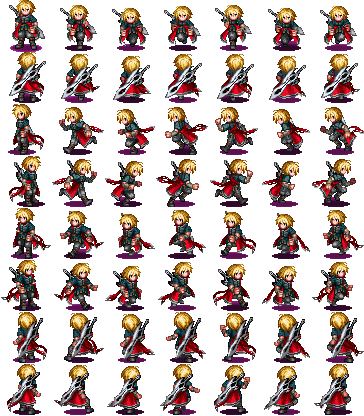
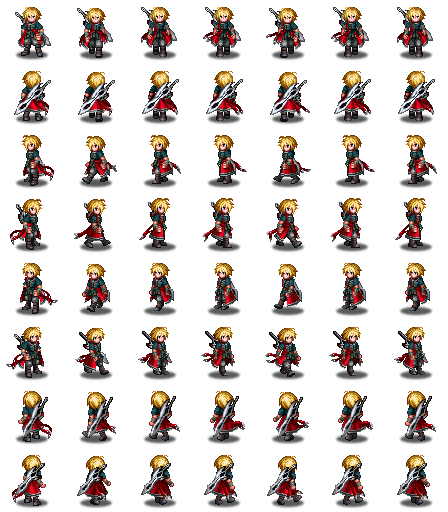
personaje animado, pendiente de poner en una posicion estatica cuando este termina de andar

diff --git a/src/Entes/Jugador.java b/src/Entes/Jugador.java
@@ -6,14 +6,15 @@ import java.awt.image.BufferedImage;
 
 import Estados.GestorControles;
 import Sprite.HojaSprites;
-import Sprite.Sprite;
 import Utiles.Constantes;
 
 public class Jugador {
 	private double posicionX;
 	private double posicionY;
 
-	private String direccion;
+	private int estadoAnimacion;
+
+	private int direccion;
 
 	private HojaSprites hojaPersonaje;
 
@@ -23,62 +24,84 @@ public class Jugador {
 		this.posicionX = posicionX;
 		this.posicionY = posicionY;
 
-		direccion = "S";
+		estadoAnimacion = 0;
 
-		hojaPersonaje = new HojaSprites("/personaje/01.png", 52, true);
+		direccion = 0;
 
-		imagenActual = hojaPersonaje.obtenerSprite(0,0).getImagen();
+		hojaPersonaje = new HojaSprites(Constantes.personaje1, 64, false);
+
+		imagenActual = hojaPersonaje.obtenerSprite(0, 0).getImagen();
 	}
 
 	public void dibujar(Graphics g) {
 		int centroX = Constantes.anchoPantalla / 2 - 32 / 2;
 		int centroY = Constantes.altoPantalla / 2 - 32 / 2;
 
+		g.setColor(Color.RED);
+		g.drawRect(centroX + 10, centroY + 4, 64 - 20, 64 - 8);
 		g.drawImage(imagenActual, centroX, centroY, null);
 	}
 
 	public void actualizar() {
 		if (GestorControles.teclado.isArriba()) {
-			direccion = "N";
-			animar();
-			posicionY -= 1;
+			direccion = 0;
+			animar(direccion);
+			posicionY -= Constantes.velocidadPersonajeAndando;
 		}
 		if (GestorControles.teclado.isAbajo()) {
-			direccion = "S";
-			animar();
-			posicionY += 1;
+			direccion = 1;
+			animar(direccion);
+			posicionY += Constantes.velocidadPersonajeAndando;
 		}
 		if (GestorControles.teclado.isIzquierda()) {
-			direccion = "O";
-			animar();
-			posicionX -= 1;
+			direccion = 2;
+			animar(direccion);
+			posicionX -= Constantes.velocidadPersonajeAndando;
 		}
 		if (GestorControles.teclado.isDerecha()) {
-			direccion = "E";
-			animar();
-			posicionX += 1;
+			direccion = 3;
+			animar(direccion);
+			posicionX += Constantes.velocidadPersonajeAndando;
 		}
 	}
 
-	public void animar() {
-		switch (direccion) {
-		case "N":
-			imagenActual = hojaPersonaje.obtenerSprite(1, 0).getImagen();
-			break;
-		case "S":
-			imagenActual = hojaPersonaje.obtenerSprite(0, 0).getImagen();
-			break;
-		case "E":
-			imagenActual = hojaPersonaje.obtenerSprite(3, 0).getImagen();
-			break;
-		case "O":
-			imagenActual = hojaPersonaje.obtenerSprite(2, 0).getImagen();
-			break;
-		case "NO":
-		case "NE":
-		case "SE":
-		case "SO":
+	private void animar(int direccion) {
+		int frecuenciaAnimacion = 8;
+		int limiteEstados = 7;
+
+		if (Constantes.APS % frecuenciaAnimacion == 0) {
+			estadoAnimacion++;
+			if (estadoAnimacion >= limiteEstados) {
+				estadoAnimacion = 0;
+			}
+			switch (direccion) {
+			case 0:
+				if (estadoAnimacion==0) {
+					estadoAnimacion++;
+				}
+				imagenActual = hojaPersonaje.obtenerSprite(estadoAnimacion, 1).getImagen();
+				break;
+			case 1:
+				if (estadoAnimacion == 0) {
+					estadoAnimacion++;
+				}
+				imagenActual = hojaPersonaje.obtenerSprite(estadoAnimacion, 0).getImagen();
+				break;
+			case 2:
+				if (estadoAnimacion==0) {
+					estadoAnimacion++;
+				}
+				imagenActual = hojaPersonaje.obtenerSprite(estadoAnimacion, 2).getImagen();
+				break;
+			case 3:
+				if (estadoAnimacion==0) {
+					estadoAnimacion++;
+				}
+				imagenActual = hojaPersonaje.obtenerSprite(estadoAnimacion, 3).getImagen();
+				break;
+			}
 		}
+
 	}
 
 	public void setPosicionX(double posicionX) {

diff --git a/src/Utiles/Constantes.java b/src/Utiles/Constantes.java
@@ -5,7 +5,12 @@ public class Constantes {
 	public static final String mapa1 = "/mapas/01.png";
 	public static final String icono = "/icono/01.png";
 	public static final String cursor = "/puntero/01.png";
+	public static final String personaje1 = "/personaje/01.png";
+
 	public static final int anchoPantalla = 800;
 	public static final int altoPantalla = 800;
+	public static int APS = 0;
+
+	public static final double velocidadPersonajeAndando = 0.7;
 
 }

diff --git a/src/Graficos/SuperficieDibujo.java b/src/Graficos/SuperficieDibujo.java
@@ -1,14 +1,12 @@
 package Graficos;
 
 import java.awt.Canvas;
-import java.awt.Color;
 import java.awt.Dimension;
 import java.awt.Graphics;
 import java.awt.Toolkit;
 import java.awt.image.BufferStrategy;
 
 import Control.Raton;
-import Control.Teclado;
 import Estados.GestorControles;
 import Estados.GestorEstados;
 

diff --git a/src/Principal/GestorPrincipal.java b/src/Principal/GestorPrincipal.java
@@ -1,4 +1,4 @@
- package Principal;
+package Principal;
 
 import Estados.GestorControles;
 import Estados.GestorEstados;
@@ -64,6 +64,7 @@ public class GestorPrincipal {
 			while (delta >= 1) {
 				actualizar();
 				aps++;
+				Constantes.APS = aps;
 				delta--;
 			}
 
